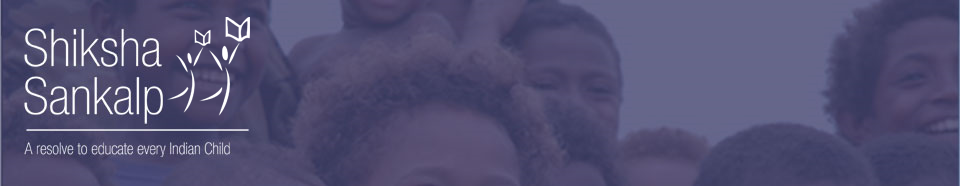
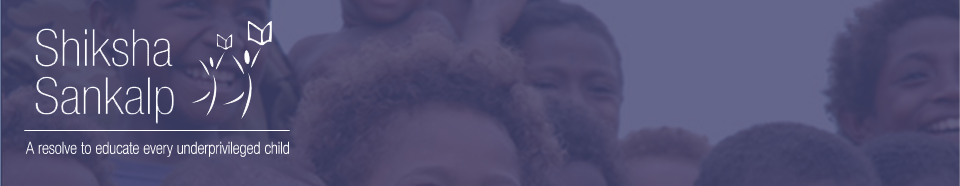
Merge with untracked changes on server.
Give links to the subscribe image.
	Newer image for Shiksha Sankalp logo.
	Comprehensive subscription link.
	Update slides.js

diff --git a/js/slides.min.jquery.js b/js/slides.min.jquery.js
@@ -2,8 +2,8 @@
 * Slides, A Slideshow Plugin for jQuery
 * Intructions: http://slidesjs.com
 * By: Nathan Searles, http://nathansearles.com
-* Version: 1.1.8
-* Updated: June 1st, 2011
+* Version: 1.1.9
+* Updated: September 5th, 2011
 *
 * Licensed under the Apache License, Version 2.0 (the "License");
 * you may not use this file except in compliance with the License.
@@ -17,4 +17,4 @@
 * See the License for the specific language governing permissions and
 * limitations under the License.
 */
-(function(A){A.fn.slides=function(B){B=A.extend({},A.fn.slides.option,B);return this.each(function(){A("."+B.container,A(this)).children().wrapAll('<div class="slides_control"/>');var V=A(this),J=A(".slides_control",V),Z=J.children().size(),Q=J.children().outerWidth(),M=J.children().outerHeight(),D=B.start-1,L=B.effect.indexOf(",")<0?B.effect:B.effect.replace(" ","").split(",")[0],S=B.effect.indexOf(",")<0?L:B.effect.replace(" ","").split(",")[1],O=0,N=0,C=0,P=0,U,H,I,X,W,T,K,F;function E(c,b,a){if(!H&&U){H=true;B.animationStart(P+1);switch(c){case"next":N=P;O=P+1;O=Z===O?0:O;X=Q*2;c=-Q*2;P=O;break;case"prev":N=P;O=P-1;O=O===-1?Z-1:O;X=0;c=0;P=O;break;case"pagination":O=parseInt(a,10);N=A("."+B.paginationClass+" li."+B.currentClass+" a",V).attr("href").match("[^#/]+$");if(O>N){X=Q*2;c=-Q*2;}else{X=0;c=0;}P=O;break;}if(b==="fade"){if(B.crossfade){J.children(":eq("+O+")",V).css({zIndex:0}).fadeIn(B.fadeSpeed,B.fadeEasing,function(){if(B.autoHeight){J.animate({height:J.children(":eq("+O+")",V).outerHeight()},B.autoHeightSpeed,function(){J.children(":eq("+N+")",V).css({display:"none",zIndex:0});J.children(":eq("+O+")",V).css({zIndex:0});B.animationComplete(O+1);H=false;});}else{J.children(":eq("+N+")",V).css({display:"none",zIndex:0});J.children(":eq("+O+")",V).css({zIndex:0});B.animationComplete(O+1);H=false;}});}else{J.children(":eq("+N+")",V).fadeOut(B.fadeSpeed,B.fadeEasing,function(){if(B.autoHeight){J.animate({height:J.children(":eq("+O+")",V).outerHeight()},B.autoHeightSpeed,function(){J.children(":eq("+O+")",V).fadeIn(B.fadeSpeed,B.fadeEasing);});}else{J.children(":eq("+O+")",V).fadeIn(B.fadeSpeed,B.fadeEasing,function(){if(A.browser.msie){A(this).get(0).style.removeAttribute("filter");}});}B.animationComplete(O+1);H=false;});}}else{J.children(":eq("+O+")").css({left:X,display:"block"});if(B.autoHeight){J.animate({left:c,height:J.children(":eq("+O+")").outerHeight()},B.slideSpeed,B.slideEasing,function(){J.css({left:-Q});J.children(":eq("+O+")").css({left:Q,zIndex:0});J.children(":eq("+N+")").css({left:Q,display:"none",zIndex:0});B.animationComplete(O+1);H=false;});}else{J.animate({left:c},B.slideSpeed,B.slideEasing,function(){J.css({left:-Q});J.children(":eq("+O+")").css({left:Q,zIndex:0});J.children(":eq("+N+")").css({left:Q,display:"none",zIndex:0});B.animationComplete(O+1);H=false;});}}if(B.pagination){A("."+B.paginationClass+" li."+B.currentClass,V).removeClass(B.currentClass);A("."+B.paginationClass+" li:eq("+O+")",V).addClass(B.currentClass);}}}function R(){clearInterval(V.data("interval"));}function G(){if(B.pause){clearTimeout(V.data("pause"));clearInterval(V.data("interval"));K=setTimeout(function(){clearTimeout(V.data("pause"));F=setInterval(function(){E("next",L);},B.play);V.data("interval",F);},B.pause);V.data("pause",K);}else{R();}}if(Z<2){return ;}if(D<0){D=0;}if(D>Z){D=Z-1;}if(B.start){P=D;}if(B.randomize){J.randomize();}A("."+B.container,V).css({overflow:"hidden",position:"relative"});J.children().css({position:"absolute",top:0,left:J.children().outerWidth(),zIndex:0,display:"none"});J.css({position:"relative",width:(Q*3),height:M,left:-Q});A("."+B.container,V).css({display:"block"});if(B.autoHeight){J.children().css({height:"auto"});J.animate({height:J.children(":eq("+D+")").outerHeight()},B.autoHeightSpeed);}if(B.preload&&J.find("img:eq("+D+")").length){A("."+B.container,V).css({background:"url("+B.preloadImage+") no-repeat 50% 50%"});var Y=J.find("img:eq("+D+")").attr("src")+"?"+(new Date()).getTime();if(A("img",V).parent().attr("class")!="slides_control"){T=J.children(":eq(0)")[0].tagName.toLowerCase();}else{T=J.find("img:eq("+D+")");}J.find("img:eq("+D+")").attr("src",Y).load(function(){J.find(T+":eq("+D+")").fadeIn(B.fadeSpeed,B.fadeEasing,function(){A(this).css({zIndex:0});A("."+B.container,V).css({background:""});U=true;B.slidesLoaded();});});}else{J.children(":eq("+D+")").fadeIn(B.fadeSpeed,B.fadeEasing,function(){U=true;B.slidesLoaded();});}if(B.bigTarget){J.children().css({cursor:"pointer"});J.children().click(function(){E("next",L);return false;});}if(B.hoverPause&&B.play){J.bind("mouseover",function(){R();});J.bind("mouseleave",function(){G();});}if(B.generateNextPrev){A("."+B.container,V).after('<a href="#" class="'+B.prev+'">Prev</a>');A("."+B.prev,V).after('<a href="#" class="'+B.next+'">Next</a>');}A("."+B.next,V).click(function(a){a.preventDefault();if(B.play){G();}E("next",L);});A("."+B.prev,V).click(function(a){a.preventDefault();if(B.play){G();}E("prev",L);});if(B.generatePagination){if(B.prependPagination){V.prepend("<ul class="+B.paginationClass+"></ul>");}else{V.append("<ul class="+B.paginationClass+"></ul>");}J.children().each(function(){A("."+B.paginationClass,V).append('<li><a href="#'+C+'">'+(C+1)+"</a></li>");C++;});}else{A("."+B.paginationClass+" li a",V).each(function(){A(this).attr("href","#"+C);C++;});}A("."+B.paginationClass+" li:eq("+D+")",V).addClass(B.currentClass);A("."+B.paginationClass+" li a",V).click(function(){if(B.play){G();}I=A(this).attr("href").match("[^#/]+$");if(P!=I){E("pagination",S,I);}return false;});A("a.link",V).click(function(){if(B.play){G();}I=A(this).attr("href").match("[^#/]+$")-1;if(P!=I){E("pagination",S,I);}return false;});if(B.play){F=setInterval(function(){E("next",L);},B.play);V.data("interval",F);}});};A.fn.slides.option={preload:false,preloadImage:"/img/loading.gif",container:"slides_container",generateNextPrev:false,next:"next",prev:"prev",pagination:true,generatePagination:true,prependPagination:false,paginationClass:"pagination",currentClass:"current",fadeSpeed:350,fadeEasing:"",slideSpeed:350,slideEasing:"",start:1,effect:"slide",crossfade:false,randomize:false,play:0,pause:0,hoverPause:false,autoHeight:false,autoHeightSpeed:350,bigTarget:false,animationStart:function(){},animationComplete:function(){},slidesLoaded:function(){}};A.fn.randomize=function(C){function B(){return(Math.round(Math.random())-0.5);}return(A(this).each(function(){var F=A(this);var E=F.children();var D=E.length;if(D>1){E.hide();var G=[];for(i=0;i<D;i++){G[G.length]=i;}G=G.sort(B);A.each(G,function(I,H){var K=E.eq(H);var J=K.clone(true);J.show().appendTo(F);if(C!==undefined){C(K,J);}K.remove();});}}));};})(jQuery);
+(function(a){a.fn.slides=function(b){return b=a.extend({},a.fn.slides.option,b),this.each(function(){function w(g,h,i){if(!p&&o){p=!0,b.animationStart(n+1);switch(g){case"next":l=n,k=n+1,k=e===k?0:k,r=f*2,g=-f*2,n=k;break;case"prev":l=n,k=n-1,k=k===-1?e-1:k,r=0,g=0,n=k;break;case"pagination":k=parseInt(i,10),l=a("."+b.paginationClass+" li."+b.currentClass+" a",c).attr("href").match("[^#/]+$"),k>l?(r=f*2,g=-f*2):(r=0,g=0),n=k}h==="fade"?b.crossfade?d.children(":eq("+k+")",c).css({zIndex:10}).fadeIn(b.fadeSpeed,b.fadeEasing,function(){b.autoHeight?d.animate({height:d.children(":eq("+k+")",c).outerHeight()},b.autoHeightSpeed,function(){d.children(":eq("+l+")",c).css({display:"none",zIndex:0}),d.children(":eq("+k+")",c).css({zIndex:0}),b.animationComplete(k+1),p=!1}):(d.children(":eq("+l+")",c).css({display:"none",zIndex:0}),d.children(":eq("+k+")",c).css({zIndex:0}),b.animationComplete(k+1),p=!1)}):d.children(":eq("+l+")",c).fadeOut(b.fadeSpeed,b.fadeEasing,function(){b.autoHeight?d.animate({height:d.children(":eq("+k+")",c).outerHeight()},b.autoHeightSpeed,function(){d.children(":eq("+k+")",c).fadeIn(b.fadeSpeed,b.fadeEasing)}):d.children(":eq("+k+")",c).fadeIn(b.fadeSpeed,b.fadeEasing,function(){a.browser.msie&&a(this).get(0).style.removeAttribute("filter")}),b.animationComplete(k+1),p=!1}):(d.children(":eq("+k+")").css({left:r,display:"block"}),b.autoHeight?d.animate({left:g,height:d.children(":eq("+k+")").outerHeight()},b.slideSpeed,b.slideEasing,function(){d.css({left:-f}),d.children(":eq("+k+")").css({left:f,zIndex:5}),d.children(":eq("+l+")").css({left:f,display:"none",zIndex:0}),b.animationComplete(k+1),p=!1}):d.animate({left:g},b.slideSpeed,b.slideEasing,function(){d.css({left:-f}),d.children(":eq("+k+")").css({left:f,zIndex:5}),d.children(":eq("+l+")").css({left:f,display:"none",zIndex:0}),b.animationComplete(k+1),p=!1})),b.pagination&&(a("."+b.paginationClass+" li."+b.currentClass,c).removeClass(b.currentClass),a("."+b.paginationClass+" li:eq("+k+")",c).addClass(b.currentClass))}}function x(){clearInterval(c.data("interval"))}function y(){b.pause?(clearTimeout(c.data("pause")),clearInterval(c.data("interval")),u=setTimeout(function(){clearTimeout(c.data("pause")),v=setInterval(function(){w("next",i)},b.play),c.data("interval",v)},b.pause),c.data("pause",u)):x()}a("."+b.container,a(this)).children().wrapAll('<div class="slides_control"/>');var c=a(this),d=a(".slides_control",c),e=d.children().size(),f=d.children().outerWidth(),g=d.children().outerHeight(),h=b.start-1,i=b.effect.indexOf(",")<0?b.effect:b.effect.replace(" ","").split(",")[0],j=b.effect.indexOf(",")<0?i:b.effect.replace(" ","").split(",")[1],k=0,l=0,m=0,n=0,o,p,q,r,s,t,u,v;if(e<2)return a("."+b.container,a(this)).fadeIn(b.fadeSpeed,b.fadeEasing,function(){o=!0,b.slidesLoaded()}),a("."+b.next+", ."+b.prev).fadeOut(0),!1;if(e<2)return;h<0&&(h=0),h>e&&(h=e-1),b.start&&(n=h),b.randomize&&d.randomize(),a("."+b.container,c).css({overflow:"hidden",position:"relative"}),d.children().css({position:"absolute",top:0,left:d.children().outerWidth(),zIndex:0,display:"none"}),d.css({position:"relative",width:f*3,height:g,left:-f}),a("."+b.container,c).css({display:"block"}),b.autoHeight&&(d.children().css({height:"auto"}),d.animate({height:d.children(":eq("+h+")").outerHeight()},b.autoHeightSpeed));if(b.preload&&d.find("img:eq("+h+")").length){a("."+b.container,c).css({background:"url("+b.preloadImage+") no-repeat 50% 50%"});var z=d.find("img:eq("+h+")").attr("src")+"?"+(new Date).getTime();a("img",c).parent().attr("class")!="slides_control"?t=d.children(":eq(0)")[0].tagName.toLowerCase():t=d.find("img:eq("+h+")"),d.find("img:eq("+h+")").attr("src",z).load(function(){d.find(t+":eq("+h+")").fadeIn(b.fadeSpeed,b.fadeEasing,function(){a(this).css({zIndex:5}),a("."+b.container,c).css({background:""}),o=!0,b.slidesLoaded()})})}else d.children(":eq("+h+")").fadeIn(b.fadeSpeed,b.fadeEasing,function(){o=!0,b.slidesLoaded()});b.bigTarget&&(d.children().css({cursor:"pointer"}),d.children().click(function(){return w("next",i),!1})),b.hoverPause&&b.play&&(d.bind("mouseover",function(){x()}),d.bind("mouseleave",function(){y()})),b.generateNextPrev&&(a("."+b.container,c).after('<a href="#" class="'+b.prev+'">Prev</a>'),a("."+b.prev,c).after('<a href="#" class="'+b.next+'">Next</a>')),a("."+b.next,c).click(function(a){a.preventDefault(),b.play&&y(),w("next",i)}),a("."+b.prev,c).click(function(a){a.preventDefault(),b.play&&y(),w("prev",i)}),b.generatePagination?(b.prependPagination?c.prepend("<ul class="+b.paginationClass+"></ul>"):c.append("<ul class="+b.paginationClass+"></ul>"),d.children().each(function(){a("."+b.paginationClass,c).append('<li><a href="#'+m+'">'+(m+1)+"</a></li>"),m++})):a("."+b.paginationClass+" li a",c).each(function(){a(this).attr("href","#"+m),m++}),a("."+b.paginationClass+" li:eq("+h+")",c).addClass(b.currentClass),a("."+b.paginationClass+" li a",c).click(function(){return b.play&&y(),q=a(this).attr("href").match("[^#/]+$"),n!=q&&w("pagination",j,q),!1}),a("a.link",c).click(function(){return b.play&&y(),q=a(this).attr("href").match("[^#/]+$")-1,n!=q&&w("pagination",j,q),!1}),b.play&&(v=setInterval(function(){w("next",i)},b.play),c.data("interval",v))})},a.fn.slides.option={preload:!1,preloadImage:"/img/loading.gif",container:"slides_container",generateNextPrev:!1,next:"next",prev:"prev",pagination:!0,generatePagination:!0,prependPagination:!1,paginationClass:"pagination",currentClass:"current",fadeSpeed:350,fadeEasing:"",slideSpeed:350,slideEasing:"",start:1,effect:"slide",crossfade:!1,randomize:!1,play:0,pause:0,hoverPause:!1,autoHeight:!1,autoHeightSpeed:350,bigTarget:!1,animationStart:function(){},animationComplete:function(){},slidesLoaded:function(){}},a.fn.randomize=function(b){function c(){return Math.round(Math.random())-.5}return a(this).each(function(){var d=a(this),e=d.children(),f=e.length;if(f>1){e.hide();var g=[];for(i=0;i<f;i++)g[g.length]=i;g=g.sort(c),a.each(g,function(a,c){var f=e.eq(c),g=f.clone(!0);g.show().appendTo(d),b!==undefined&&b(f,g),f.remove()})}})}})(jQuery)

diff --git a/headerinner.php b/headerinner.php
@@ -69,7 +69,7 @@
 	<div id="header_right">
     	<div id="header_top">
         	<div id="header_top_logo">USERNAME &nbsp; <input type="text" class="width" /> &nbsp; &nbsp; PASSWORD &nbsp;<input type="text" class="width" />
-            	<input type="image" src="images/login.png" align="top" width="38px"/><br /><br /><p align="right"><img src="images/subscribe.png" /></p>
+            	<input type="image" src="images/login.png" align="top" width="38px"/><br /><br /><p align="right"><a href="subscribe.php"><img src="images/subscribe.png" /></a></p>
             </div>
             <div id="header_top_login"></div>
         </div>

diff --git a/header.php b/header.php
@@ -67,7 +67,9 @@
 			  <br />
 			  <br />
 			  <p align="right">
-				<img src="images/subscribe.png" />
+				<a href="subscribe.php">
+				  <img src="images/subscribe.png" />
+				</a>
 			  </p>
 			</div>
 			<div id="header_top_login"></div>
